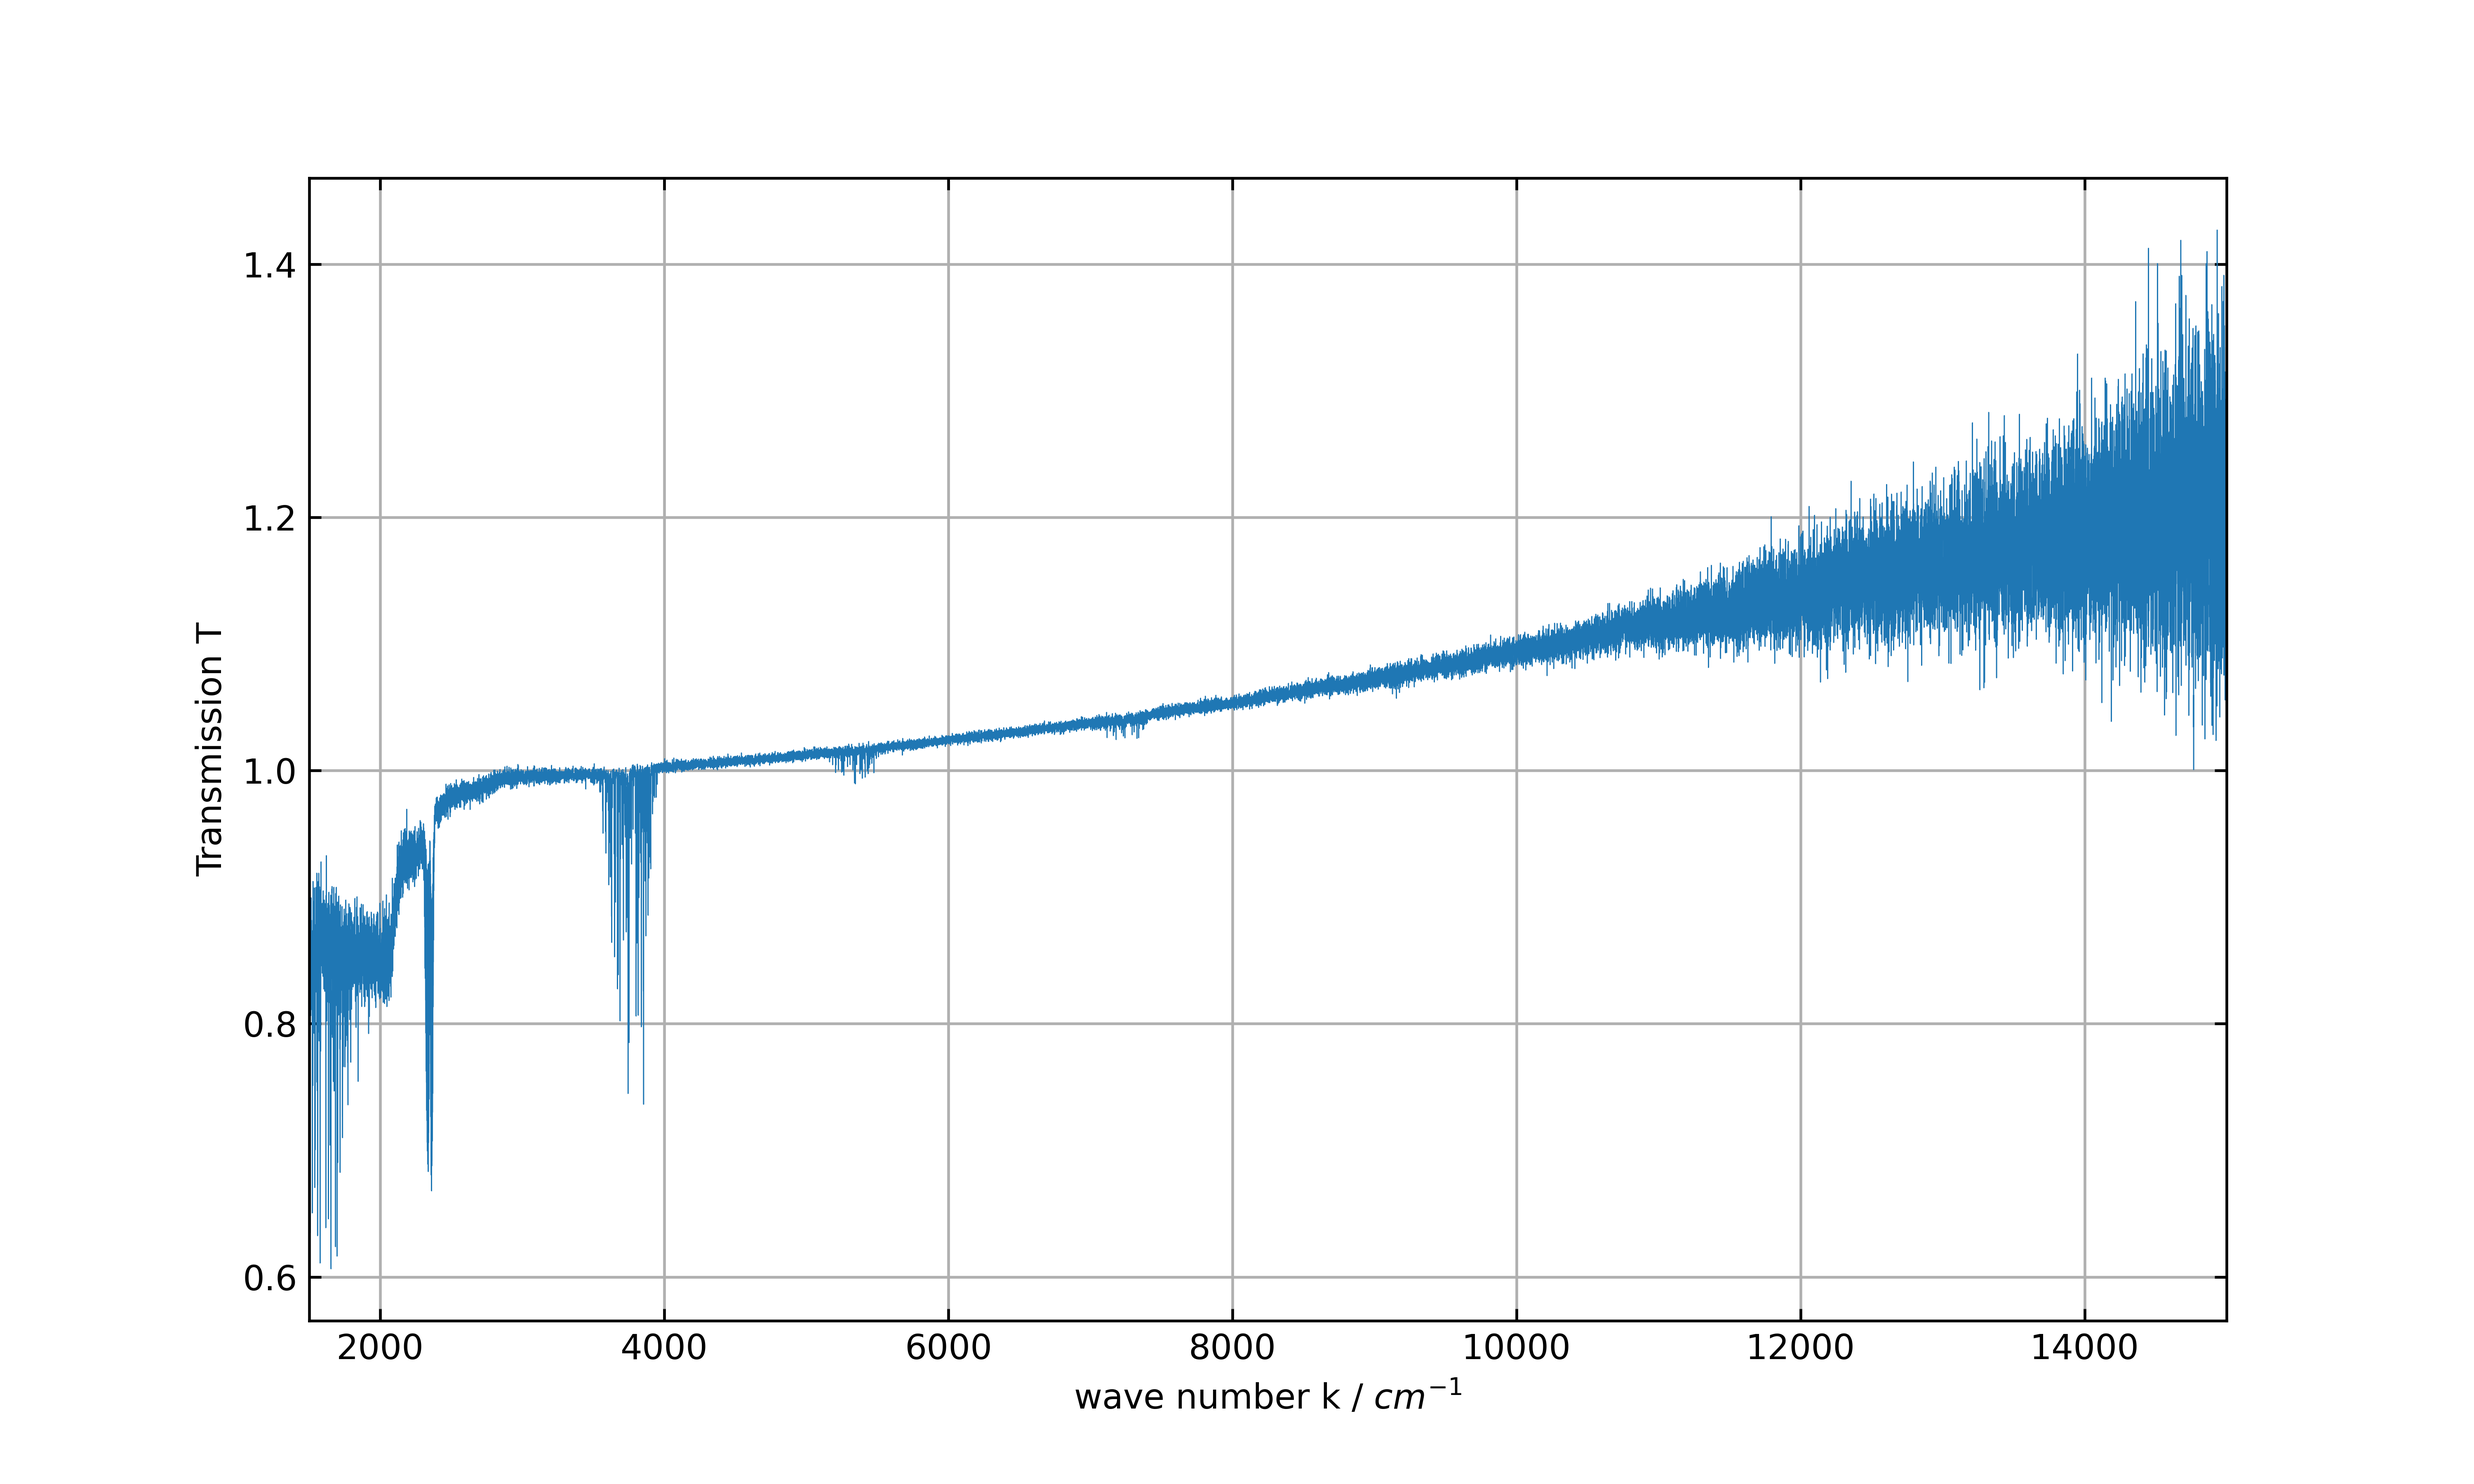
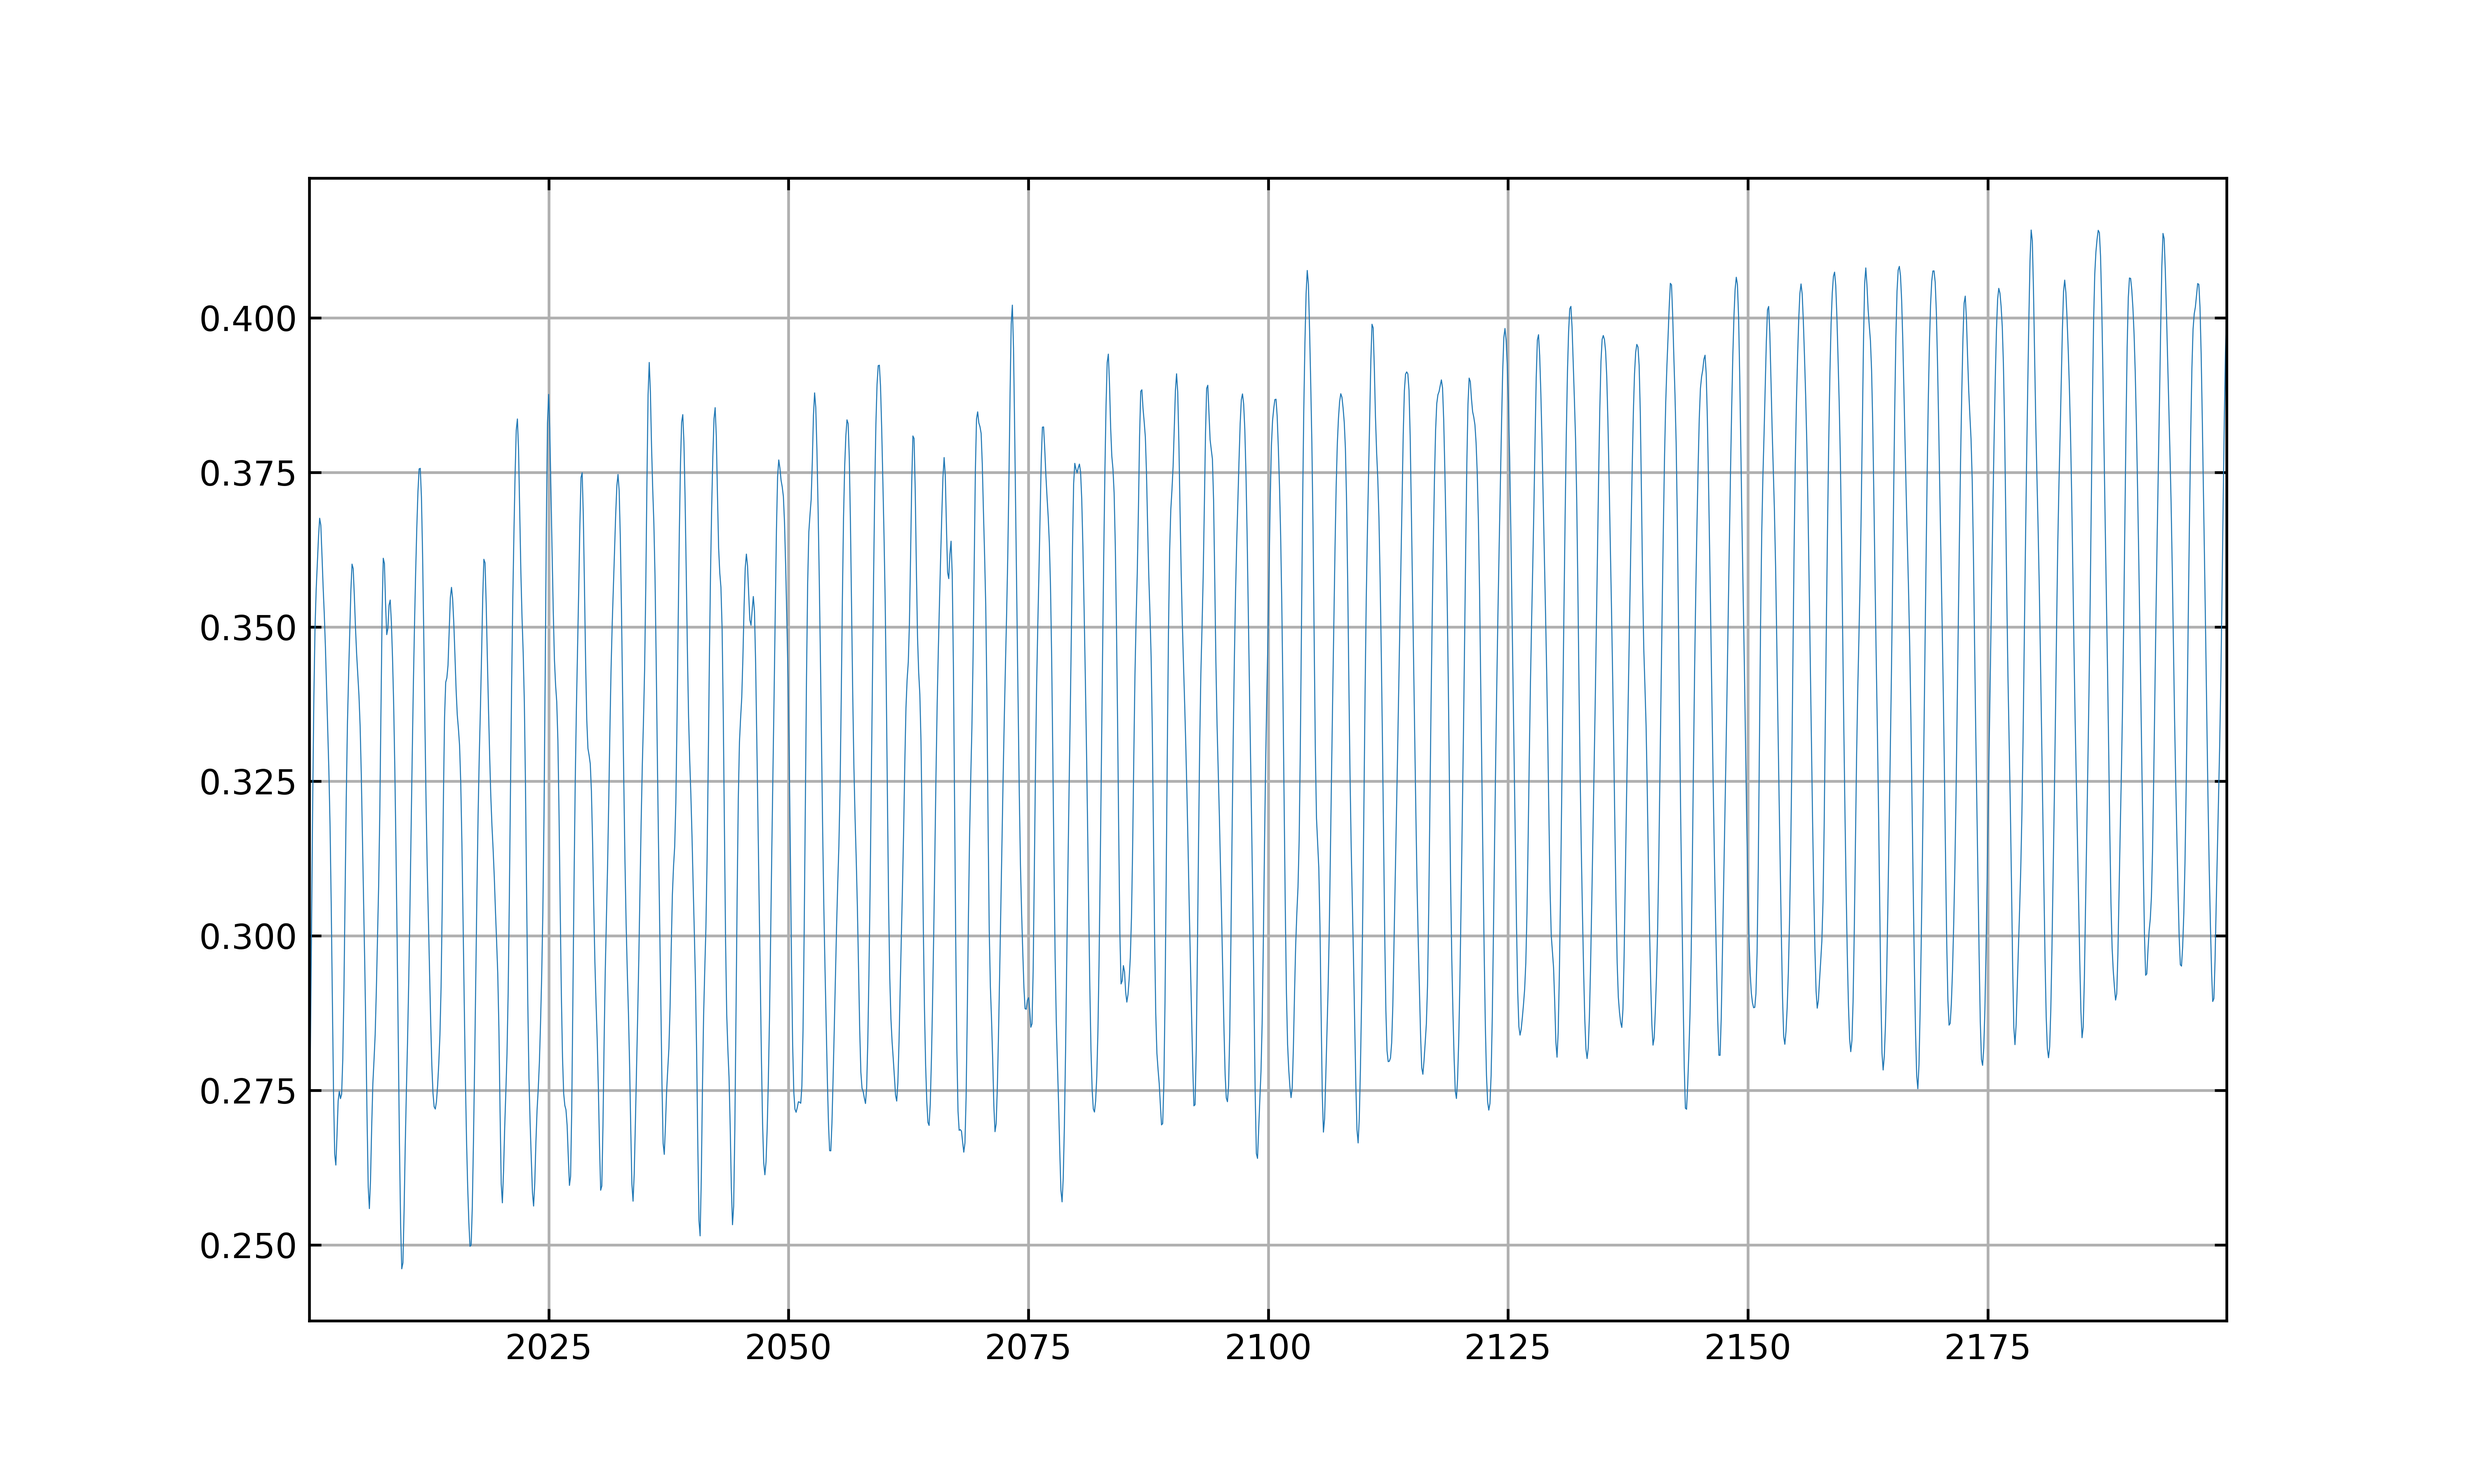
Add directBandgap module and update Transmitivity.py for new data processing; enhance plotting functionality

diff --git a/SolidStateOptics/directBandgap.py b/SolidStateOptics/directBandgap.py
@@ -1,0 +1,34 @@
+from matplotlib import pyplot as plt
+from DataPlotter import plot_data, save_and_open
+from DataReader import read_dpt_file
+import numpy as np
+import scipy.constants as const
+
+e = const.e  # Elementary charge in Coulombs
+hbar = const.hbar  # Reduced Planck's constant in J.s
+m = const.m_e  # Electron mass in kg
+epsilon_0 = const.epsilon_0  # Vacuum permittivity in F/m
+
+#moch willkürliche Werte
+mu_GaAs = 0.036872 * const.m_e  # Effective mass of electron in GaAs (müssen quelle finden!!)
+m_e = const.m_e  # Electron mass in kg
+factor = e*e*(2*mu_GaAs)**(3/2)*2*np.pi/(epsilon_0*m_e**2*hbar**3)    
+
+
+
+
+
+def plotKomischeFunktion():
+    read_dpt_file(r'.\SolidStateOptics\RawData\Transmission_ex3\GaAs_doped_res03_N50_new_normalized.DPT')
+    
+    komischeFunktion = []
+    for s, r in zip(dataSample, dataReference):
+        komischeFunktion.append([s[0], s[1] / r[1]])
+    
+    plot_data()
+    plt.xlabel('wave number k / ' + r'$cm^{-1}$')    
+    save_and_open("foo")
+    
+plotKomischeFunktion()
+    
+    

diff --git a/SolidStateOptics/Transmitivity.py b/SolidStateOptics/Transmitivity.py
@@ -1,8 +1,13 @@
-from SolidStateOptics.DataPlotter import plot_data, save_and_open
-from SolidStateOptics.DataReader import read_dpt_file
+from DataPlotter import plot_data, save_and_open
+from DataReader import read_dpt_file
 
-filepathbeginning = './SolidStateOptics/RawData/'
-file1 = 'Reflection_ex4/refl_GaAs_doped_res4_N50_normalized.DPT'
 
-plot_data(read_dpt_file(file1))
+file1 = r'.\SolidStateOptics\RawData\Transmission_ex3\GaAs_doped_res03_N50_new_normalized.DPT'
+
+ausschnitt = []
+for s in read_dpt_file(file1):
+    if s[0] > 2000 and s[0] < 2200:
+        ausschnitt.append([s[0], s[1]])
+
+plot_data(ausschnitt)
 save_and_open()
